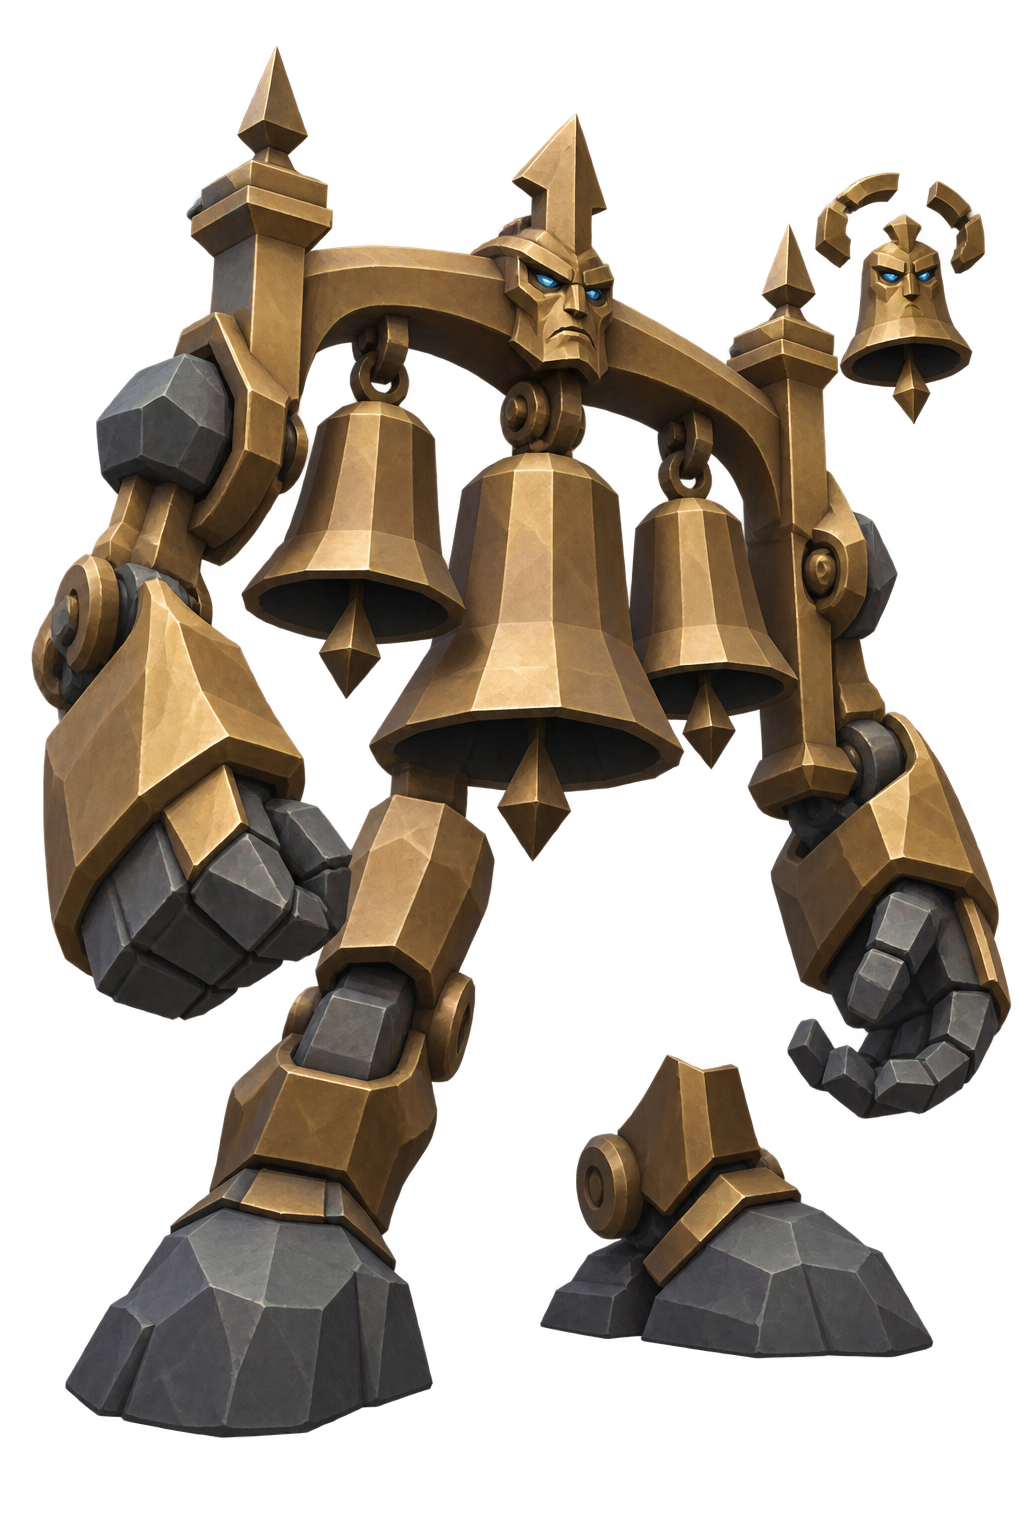
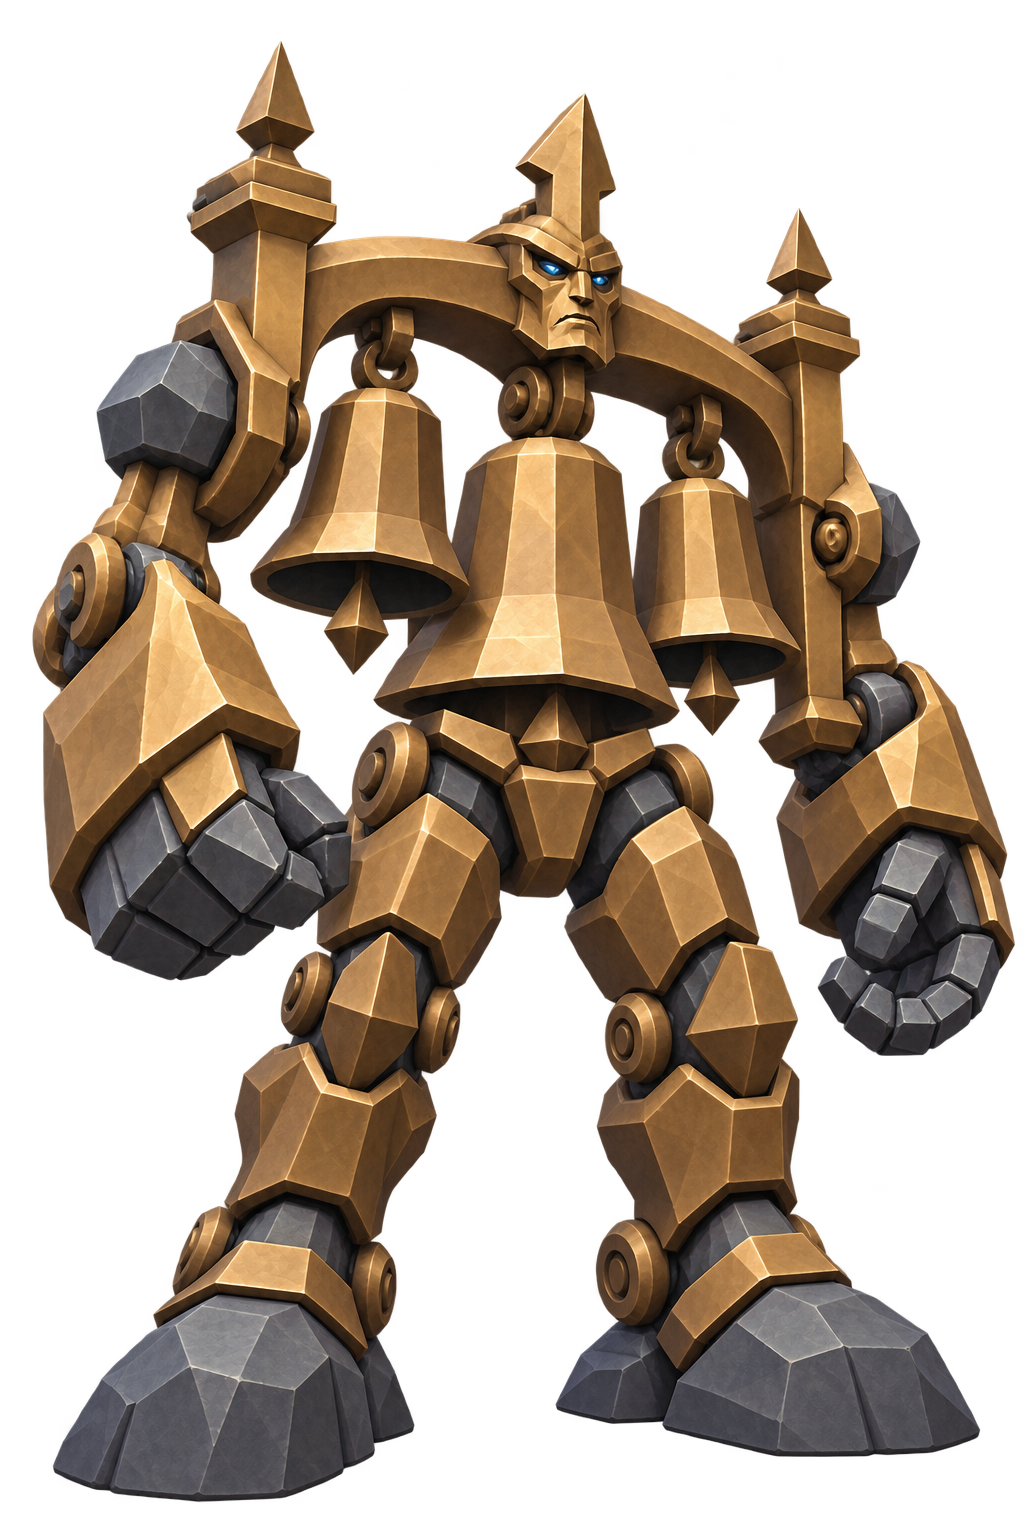
Repair carillon body connections and remove familiar

diff --git a/docs/art-batches/carillon-repair-09.md b/docs/art-batches/carillon-repair-09.md
@@ -1,0 +1,7 @@
+# Carillon repair
+
+Replaced `art/creatures-new/carillon-summoner-chime_magic_summoner_bard.png` with a user-requested edit of the original creature.
+
+Preserved the bronze carillon frame, stern blue-eyed face, three bells, slate fists, and moderate-detail low-poly design. Added a solid lower body and two complete connected legs; removed the floating miniature familiar.
+
+Validation: visually reviewed limb continuity and absence of companions; confirmed 1024 x 1536 PNG with transparent corner pixels.
